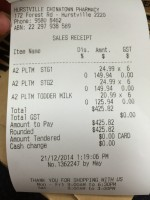
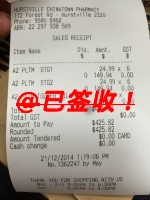
fix watermark ajax

Changed region(s): [[0.08, 0.42, 0.9067, 0.6]]

diff --git a/fan/app/views/order/show.blade.php b/fan/app/views/order/show.blade.php
@@ -66,9 +66,9 @@
 				@foreach ($images as $image)
 				<?php echo $imgItem%6 == 0 ? '<tr>' : '' ;?>
 					<td  class="col-md-1"><a href="/{{ $image->path . $image->filename}}">
-						{{ HTML::image('packages/uploads/thumbnails/thumb-' . $image->filename, 'null', array('class' => 'img-rounded img-responsive')) }}
+						{{ HTML::image('packages/uploads/thumbnails/thumb-' . $image->filename, 'null', array('class' => 'img-rounded img-responsive watermarkThumb')) }}
 					</a>
-					<?php echo $image->watermark ? '' : HTML::link('order/watermark/'.$image->id, 'WaterMark', array('class'=>'btn btn-info')); ?>
+					<?php echo $image->watermark ? '' : HTML::link('order/watermark/'.$image->id, 'WaterMark', array('class'=>'btn btn-info watermarkLink')); ?>
 					</td>
 				<?php $imgItem++; ?>
 				<?php echo $imgItem%6 == 0 ? '</tr>' : '' ;?>
@@ -99,4 +99,30 @@
 	   background-color: #CCE6FF;
 	}
 </style>
+
+<script type="text/javascript">
+	$(function(){
+		$('.watermarkLink').click(function(e){
+			e.preventDefault();
+			$(this).addClass('current');
+			$.ajax({ 
+				type: "get", 
+				url: $(this).attr('href'), 
+				dataType: "json", 
+				success: function () {
+					var d = new Date();
+					$('.current').prev('a').find('img').attr('src', $('.current').prev('a').find('img').attr('src')+ '?'+d.getTime());
+					$('.current').hide();
+					$('.current').removeClass('current');
+				}, 
+				error: function (XMLHttpRequest, textStatus, errorThrown) { 
+					alert(errorThrown); 
+					$('.current').removeClass('current');
+				} 
+	        });
+		});
+		
+	});
+
+</script>
 @stop

diff --git a/fan/app/controllers/OrderController.php b/fan/app/controllers/OrderController.php
@@ -267,7 +267,8 @@ class OrderController extends \BaseController {
 		$images->watermark = true;
 		$images->save();
 
-		return Redirect::to( URL::previous() );
+		// return Redirect::to( URL::previous() );
+		return Response::json(['msg'=> true]);
 	}
 
 	/**
